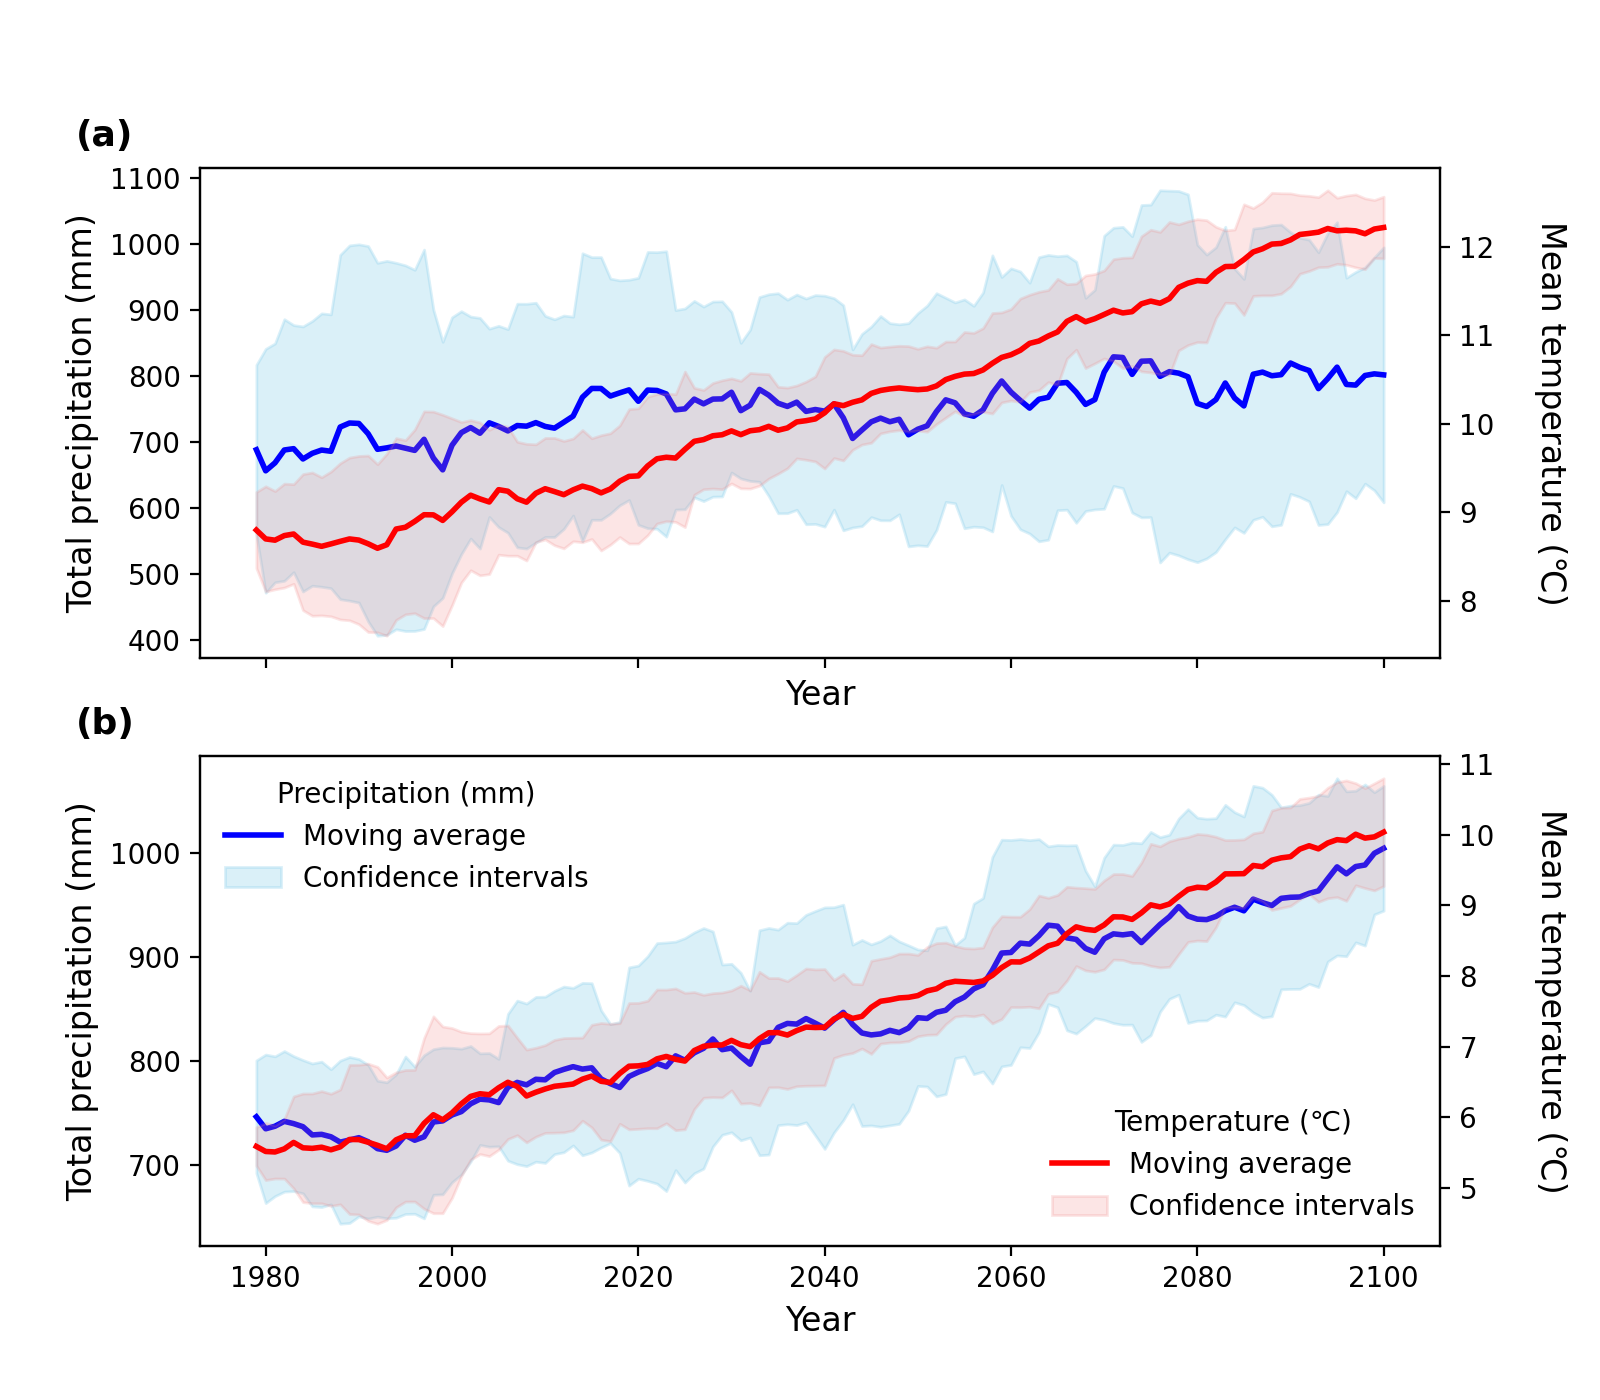
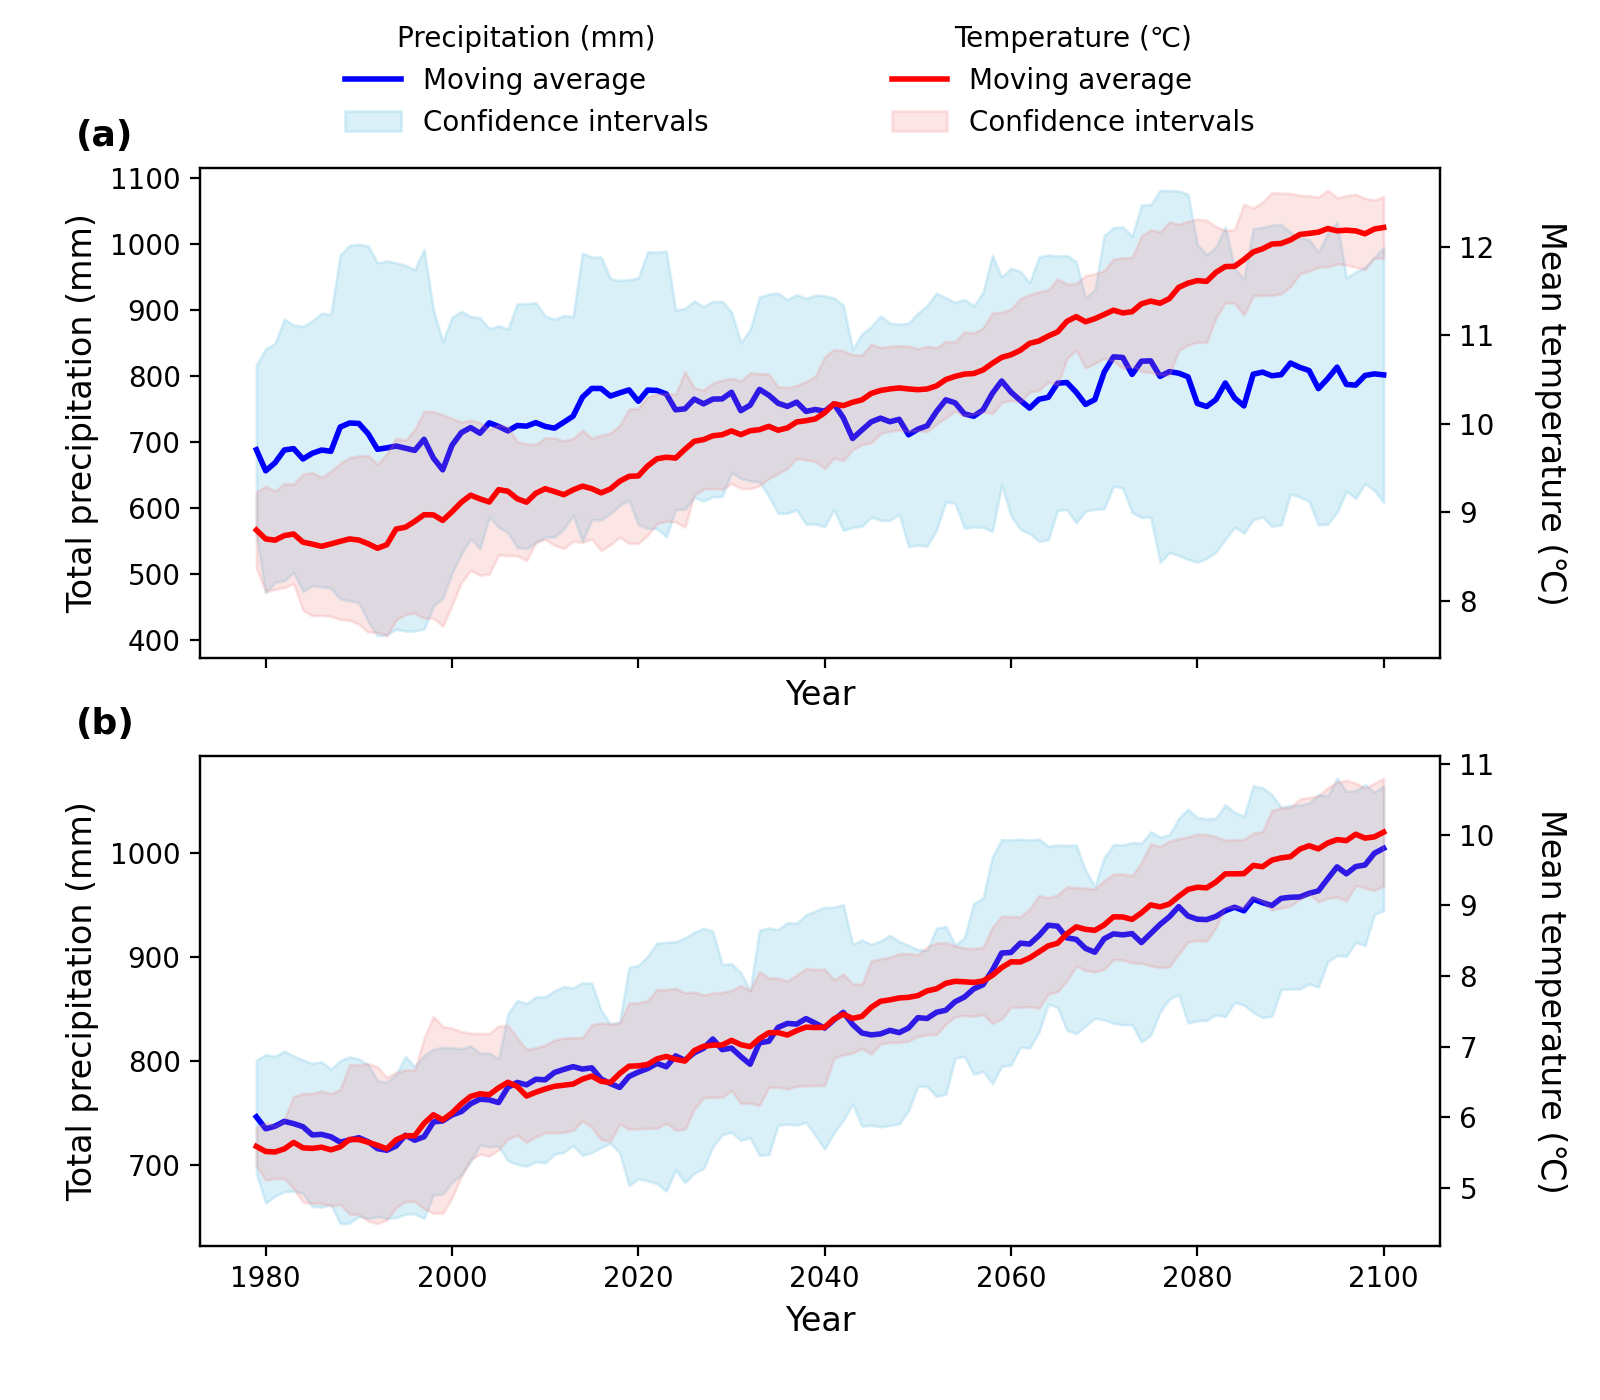
task 2 done

diff --git a/script.py b/script.py
@@ -45,7 +45,6 @@ print(shape02416.crs)
 print(shape01147.crs) 
 # glacier shapefile both epsg:4326
 
-
 # Read climate + DEM + thickness data for each glacier
 climate02416 = xr.open_dataset(clim_dir + "clim_rcp85_" + rids[0] + ".nc")
 climate01147 = xr.open_dataset(clim_dir + "clim_rcp85_" + rids[1] + ".nc")
@@ -137,6 +136,7 @@ print(shape01147.CenLat)
 
 # Step is as follows: 
 # --------------
+# 0. define functions 
 # 1. get annual Sum of precipitation 
 # 2. get annual Mean of temperature 
 # 3. get moving average with an window of 11 
@@ -186,7 +186,7 @@ def process_climate_timeseries(ds, prcp="prcp", temp="temp", m=5):
    prcp = annual_prcp.values
    temp = annual_temp.values 
    
-   # get moving average 
+   # get moving average of 11 years 
    prcp_mavg, prcp_std = moving_average(prcp, m)
    temp_mavg, temp_std = moving_average(temp, m)
 
@@ -205,7 +205,7 @@ g02416 = process_climate_timeseries(climate02416)
 g01147 = process_climate_timeseries(climate01147)
 climate_data = [g02416, g01147]
 
-# plot ----
+# plot (Step. 5)----
 fig, axes = plt.subplots(2, 1, figsize=(8, 7), sharey=False, sharex=True)
 
 for idx, (ax, data) in enumerate(zip(axes, climate_data)): 
@@ -231,19 +231,10 @@ for idx, (ax, data) in enumerate(zip(axes, climate_data)):
                       label = "Confidence intervals")
    ax1.set_ylabel("Mean temperature (℃)", fontsize=12, rotation=270, labelpad=20, va="center")
 
-   # only plot legends on the second column 
-   if idx == 1:
-      # combine legends from both axes
-      lines, labels = ax.get_legend_handles_labels()
-      lines2, labels2 = ax1.get_legend_handles_labels()
-      
-      # legend for precipitation (left side)
-      ax.legend([lines[0], lines[1]], ["Moving average", "Confidence intervals"], 
-                loc="upper left", frameon=False, title="Precipitation (mm)")
-      
-      # legend for temperature (right side)
-      ax1.legend([lines2[0], lines2[1]], ["Moving average", "Confidence intervals"], 
-                 loc="lower right", frameon=False, title="Temperature (℃)")
+   # capture legend handles from the first subplot so we can place unified legends
+   if idx == 0:
+      first_precip_handles, _ = ax.get_legend_handles_labels()
+      first_temp_handles, _ = ax1.get_legend_handles_labels()
    
    # annotate 
    letter = chr(97 + idx)  # 'a' for idx=0, 'b' for idx=1
@@ -255,10 +246,193 @@ for idx, (ax, data) in enumerate(zip(axes, climate_data)):
                fontsize=13,
                fontweight='bold')
 
-fig.subplots_adjust(wspace=.4)
+# create unified legends above the first subplot (outside the figure)
+# Use handles from the first subplot so colours/labels match
+try:
+   prec_handles = [first_precip_handles[0], first_precip_handles[1]]
+   temp_handles = [first_temp_handles[0], first_temp_handles[1]]
+except NameError:
+   # fallback: get handles from last axes
+   prec_handles, _ = axes[0].get_legend_handles_labels()
+   temp_handles, _ = axes[0].twinx().get_legend_handles_labels()
+
+# precipitation legend (left, above subplot a)
+fig.legend(prec_handles, ["Moving average", "Confidence intervals"],
+         loc="upper left", bbox_to_anchor=(0.2, 1), frameon=False,
+         title="Precipitation (mm)")
+
+# temperature legend (right, above subplot a)
+fig.legend(temp_handles, ["Moving average", "Confidence intervals"],
+         loc="upper right", bbox_to_anchor=(0.8, 1), frameon=False,
+         title="Temperature (℃)")
+
+fig.subplots_adjust(wspace=.4, top=0.88)
 plt.savefig("figure/task1b_climate_timeseries.png", dpi=200)
 # plt.show()
 # ============================ # 
 
 # ==== Task 1c: Calculate volume of each glacier  ====
-print(thick02416.tags())
+
+## 02416 ----
+# mask thickness tiff by glacier outline
+shape02416 = shape02416.to_crs("epsg:32718")
+mask_array, _ = mask(thick02416, shape02416.geometry, indexes=1, nodata=-9999)
+
+# get the pixel area of thickness
+transform = thick02416.transform 
+pixelarea = np.abs(transform[0]*transform[4])
+# print(pixelarea) # 25 m pixel, 625 m2 
+
+# get glacier volume 
+zp = mask_array[mask_array > 0]
+volume02416 = pixelarea*np.sum(zp) 
+# print(zp.max()) # 64.68 m 
+# print(zp.min()) # 6.36 m
+print(f"The volume of glacier 02416 as of 2018 is: " + str(np.round(volume02416, 3)) + "m3")
+
+## 01147 ----
+# mask thickness tiff by glacier outline
+print(thick01147.tags())
+shape01147 = shape01147.to_crs("epsg:32719")
+mask_array, _ = mask(thick01147, shape01147.geometry, indexes=1, nodata=-9999)
+
+# get glacier volume 
+zp = mask_array[mask_array > 0]
+volume01147 = pixelarea*np.sum(zp) 
+# print(zp.max()) # 72.32 m  
+# print(zp.min()) # 6.57 m
+print(f"The volume of glacier 01147 as of 2018 is: " + str(np.round(volume01147, 3)) + "m3")
+# ============================ # 
+
+# ==== Task 2: Calculate the mass balance ====
+
+# Step is as follows: 
+# --------------
+# 1. define functions 
+#    a. get climate data in np 1d array form 
+#    b. get pixel area of dem 
+#    c. set shapefile crs to dem projection 
+#    d. mask outside-glacier 
+#    e. create empty output folder
+#    f. set loops to compute glacier mass balance for each month 
+# 
+# 2. process both glaciers to get mass balance per month 
+# 3. get annual mean mass balance 
+# 4. plot annual change in glacier mass
+# --------------
+
+# 1. define functions to compute glacier mass balance----
+def compute_mb(dem, shape, climate, mu = 20, lam = 0.006, Tsolid = -2): 
+   """ 
+   Compute glacier wide monthly mass balance 
+
+   Inputs: 
+   shape: glacier shapefile
+   dem: elevation per pixel 
+   climate: monthly temperature and precipitation record between 1980-2100
+
+   Returns:
+   mass_balance: 1D array of monthly change in glacier mass (kg)
+    
+   """
+   # a. get cliamte data into np.array forms
+   time = climate.time.values
+   temperature = climate.temp.values
+   precipitation = climate.prcp.values
+   N = temperature.size
+
+   # b. get pixel area for DEM 
+   pixelArea = np.abs(dem.transform[0] * dem.transform[4])
+
+   # c. set shapefile crs to DEM projection
+   shape = shape.to_crs(dem.crs)
+
+   # d. clip out outside-the-glacier value to be -9999
+   mask_glacier, _ = mask(dem, shape.geometry, invert = False, nodata = -9999)
+
+   # remove mask_glacier 3rd dimension 
+   mask_glacier = np.squeeze(mask_glacier)
+
+   # e. empty output folder 
+   rows, cols = mask_glacier.shape # get the row and column numbers of mask_glacier 
+   smb_pixel = np.zeros((rows, cols)) # create an empty 2d-array with the same rows and columns
+   mass_balance = np.zeros(N)
+
+   # f. compute mass glacier 
+   for i in range(N): 
+      
+      temp_i = temperature[i]
+      prcp_i = precipitation[i]
+
+      # get temperature in every pixel using the temperature at the reference height, the elevation,
+      # and the lapse rate
+      temp_pixel = temp_i - (dem.read(1) - climate.ref_hgt) * lam
+
+      # get melt in each pixel (a negative number) according to degree day factor
+      smb_pixel[:,:] = -mu * temp_pixel
+
+      # set melt to zero in pixels where temperature is negative or we are outside of the glacier
+      smb_pixel[(mask_glacier==-9999)|(temp_pixel<0)] = 0.0
+
+      # add the precipitation to pixels inside the glacier, only where temperature
+      # is below the threshold for snow
+      # (the backslash is to continue an expression on the next line)
+      smb_pixel[(mask_glacier>-9999) & (temp_pixel<Tsolid)] = \
+      smb_pixel[(mask_glacier>-9999) & (temp_pixel<Tsolid)] + prcp_i
+
+      mass_balance[i] = np.sum(smb_pixel[mask_glacier != -9999]) * pixelArea
+
+   return{
+      "time" : time,
+      "mass_balance_kg" : mass_balance
+   }
+
+
+# 2. process both glaciers 
+mb02416 = pd.DataFrame(compute_mb(dem02416, shape02416, climate02416))
+mb01147 = pd.DataFrame(compute_mb(dem01147, shape01147, climate01147))
+
+print(mb02416)
+
+# 3. get moving average of mass balance over 11 years 
+ma02416, std02416 = moving_average(mb02416["mass_balance_kg"], 5)
+ma01147, std01147 = moving_average(mb01147["mass_balance_kg"], 5)
+
+# 4. plot annual change in glacier mass (kg)
+fig, (ax1, ax2) = plt.subplots(1, 2, figsize=(9, 4))
+
+ax1.plot(mb02416.time, ma02416, lw=2, color="blue", label="Moving average")
+ax1.fill_between(mb02416.time, 
+                 ma02416 + 2*std02416, 
+                 ma02416 - 2*std02416,
+                 color="skyblue", alpha=0.3, 
+                 label = "Confidence intervals")
+ax1.set_xlabel("Year", fontsize=12)
+ax1.set_ylabel("Mass balance (kg)", fontsize=12)
+ax1.legend(frameon=False, loc="best")
+ax1.annotate(f'(a)',
+               xy=(-0.1, 1.1),
+               xycoords='axes fraction',
+               horizontalalignment='left',
+               verticalalignment='top',
+               fontsize=13,
+               fontweight='bold')
+
+ax2.plot(mb01147.time, ma01147, lw=2, color="red", label="Moving average")
+ax2.fill_between(mb01147.time, 
+                 ma01147 + 2*std01147, 
+                 ma01147 - 2*std01147, 
+                 color="pink", alpha=0.3, 
+                 label = "Confidence intervals")
+ax2.set_xlabel("Year", fontsize=12)
+ax2.annotate(f'(b)',
+               xy=(-0.1, 1.1),
+               xycoords='axes fraction',
+               horizontalalignment='left',
+               verticalalignment='top',
+               fontsize=13,
+               fontweight='bold')
+
+plt.show()
+fig.savefig("figure/task2_mass_balance_timeseries.png", dpi=300)
+# ============================ # 
